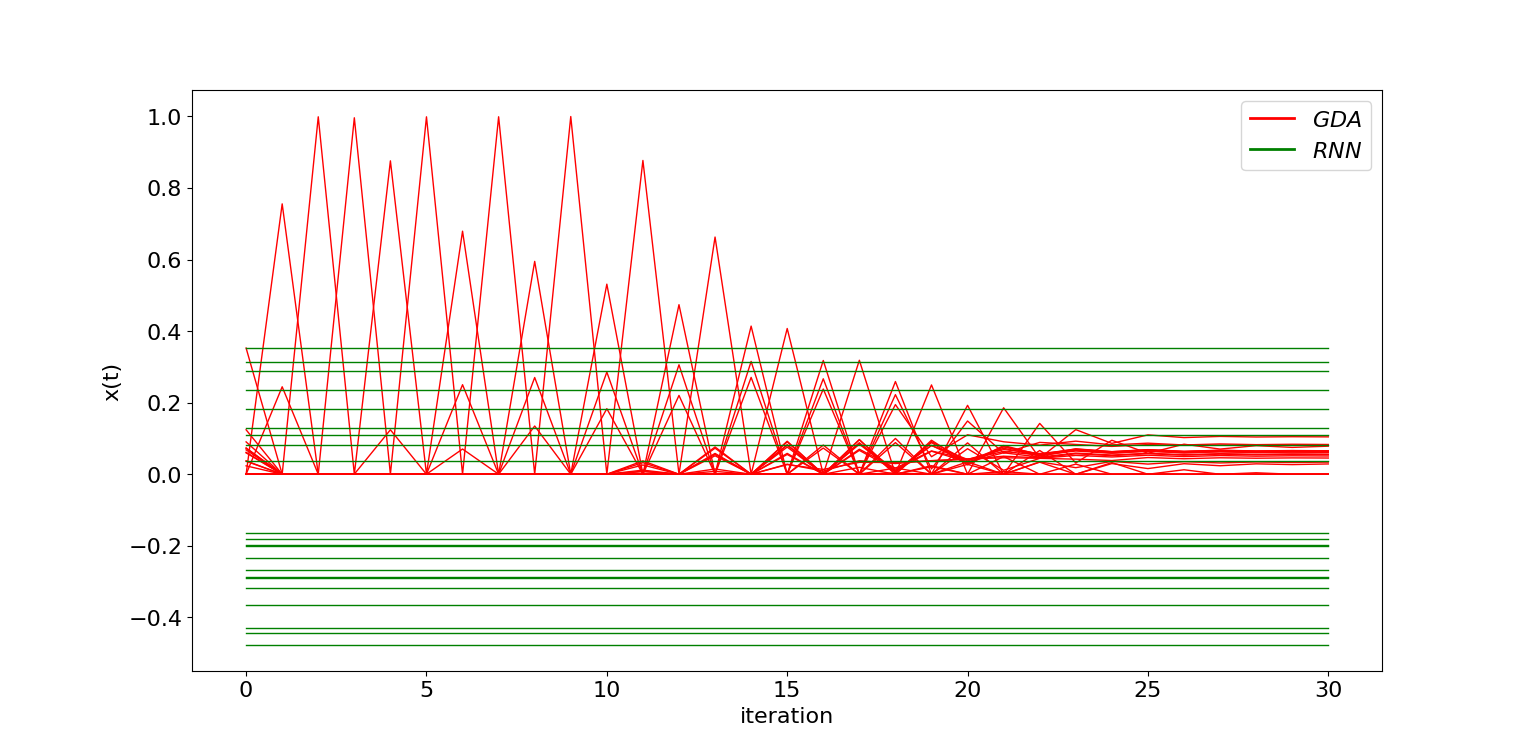
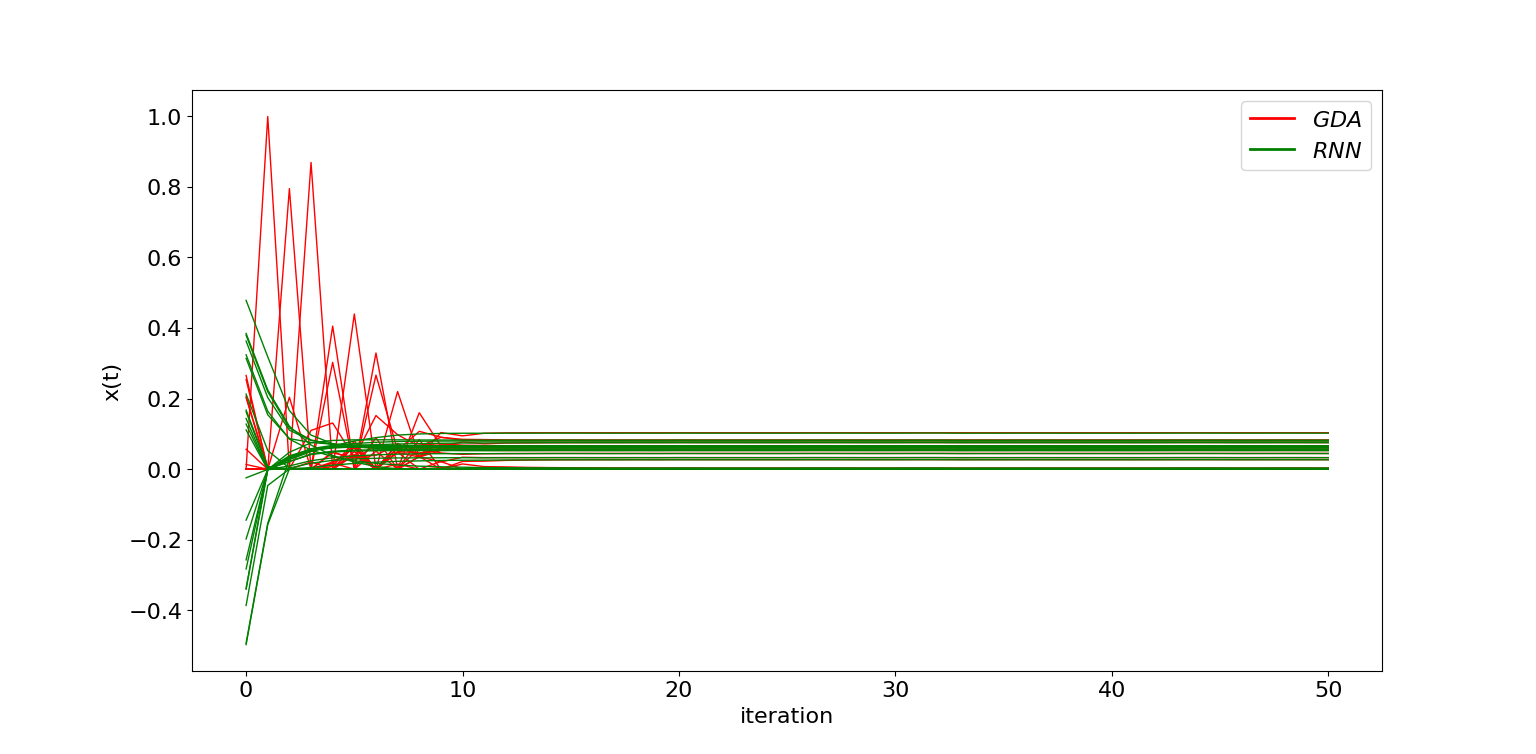
fix

diff --git a/implementation/src/examples/example_4.py b/implementation/src/examples/example_4.py
@@ -4,6 +4,7 @@ from autograd import grad
 import matplotlib.pyplot as plt
 from scipy.optimize import Bounds, BFGS
 import sys, os
+import time
 ROOT = os.path.dirname(os.path.dirname(os.path.abspath(__file__)))
 sys.path.insert(0, ROOT)
 import algorithms.gda  as gda_module
@@ -116,24 +117,37 @@ def main():
     for i in range(num_init_points):
         x0 = np.random.rand(1, n)
         x0 = gda_instance.projection(x0, n)
+        
+        # GDA execution time
+        start_time_gda = time.time()
         res_gda, val_gda = gda_instance.gda(x0.copy(), max_iters, f, f_dx, n)
+        end_time_gda = time.time()
+        time_gda = end_time_gda - start_time_gda
+        
         final_val_gda = -np.log(-f(res_gda[-1]))
         tmp_gda = np.array(res_gda)[:,:]
         sol_gda_all.append(tmp_gda)
         val_gda_all.append(final_val_gda)
         print("GDA-Agorithms : Initial point:",x0,"Final point:",res_gda[-1],"Final value:",final_val_gda)
+        print(f"GDA Execution Time: {time_gda:.6f} seconds\n")
         
+        # RNN execution time
+        start_time_rnn = time.time()
         res_rnn_hist, xt_rnn = rnn_instance.rnn(x0.copy(), max_iters, f, f_dx, g_i, derivative_g_i)
+        end_time_rnn = time.time()
+        time_rnn = end_time_rnn - start_time_rnn
+        
         tmp_rnn = np.array(res_rnn_hist)[:,:]
         final_val_rnn = -np.log(-f(xt_rnn.reshape(-1)))
 
         sol_rnn_all.append(tmp_rnn)
         val_rnn_all.append(final_val_rnn)
         print("RNN-Agorithms : Initial point:",x0,"Final point:",res_gda[-1],"Final value:",final_val_rnn)
+        print(f"RNN Execution Time: {time_rnn:.6f} seconds\n")
         
         count += 1
 
-        plot_x(sol_gda_all, sol_rnn_all, count, max_iters)
+        #plot_x(sol_gda_all, sol_rnn_all, count, max_iters)
 
 if __name__ == "__main__":
     main()

diff --git a/implementation/src/examples/example_5_1.py b/implementation/src/examples/example_5_1.py
@@ -187,7 +187,7 @@ bounds = Bounds([0 for i in range(n)], [np.inf for i in range(n)])
 gda_alg = gda_module.GDA(lamda = 10, K = 0.8, cons = cons, bounds = bounds)
 
 number_of_runs = 1
-max_iters = 30
+max_iters = 50
 gda_solution = []
 rnn_solution = []
 
